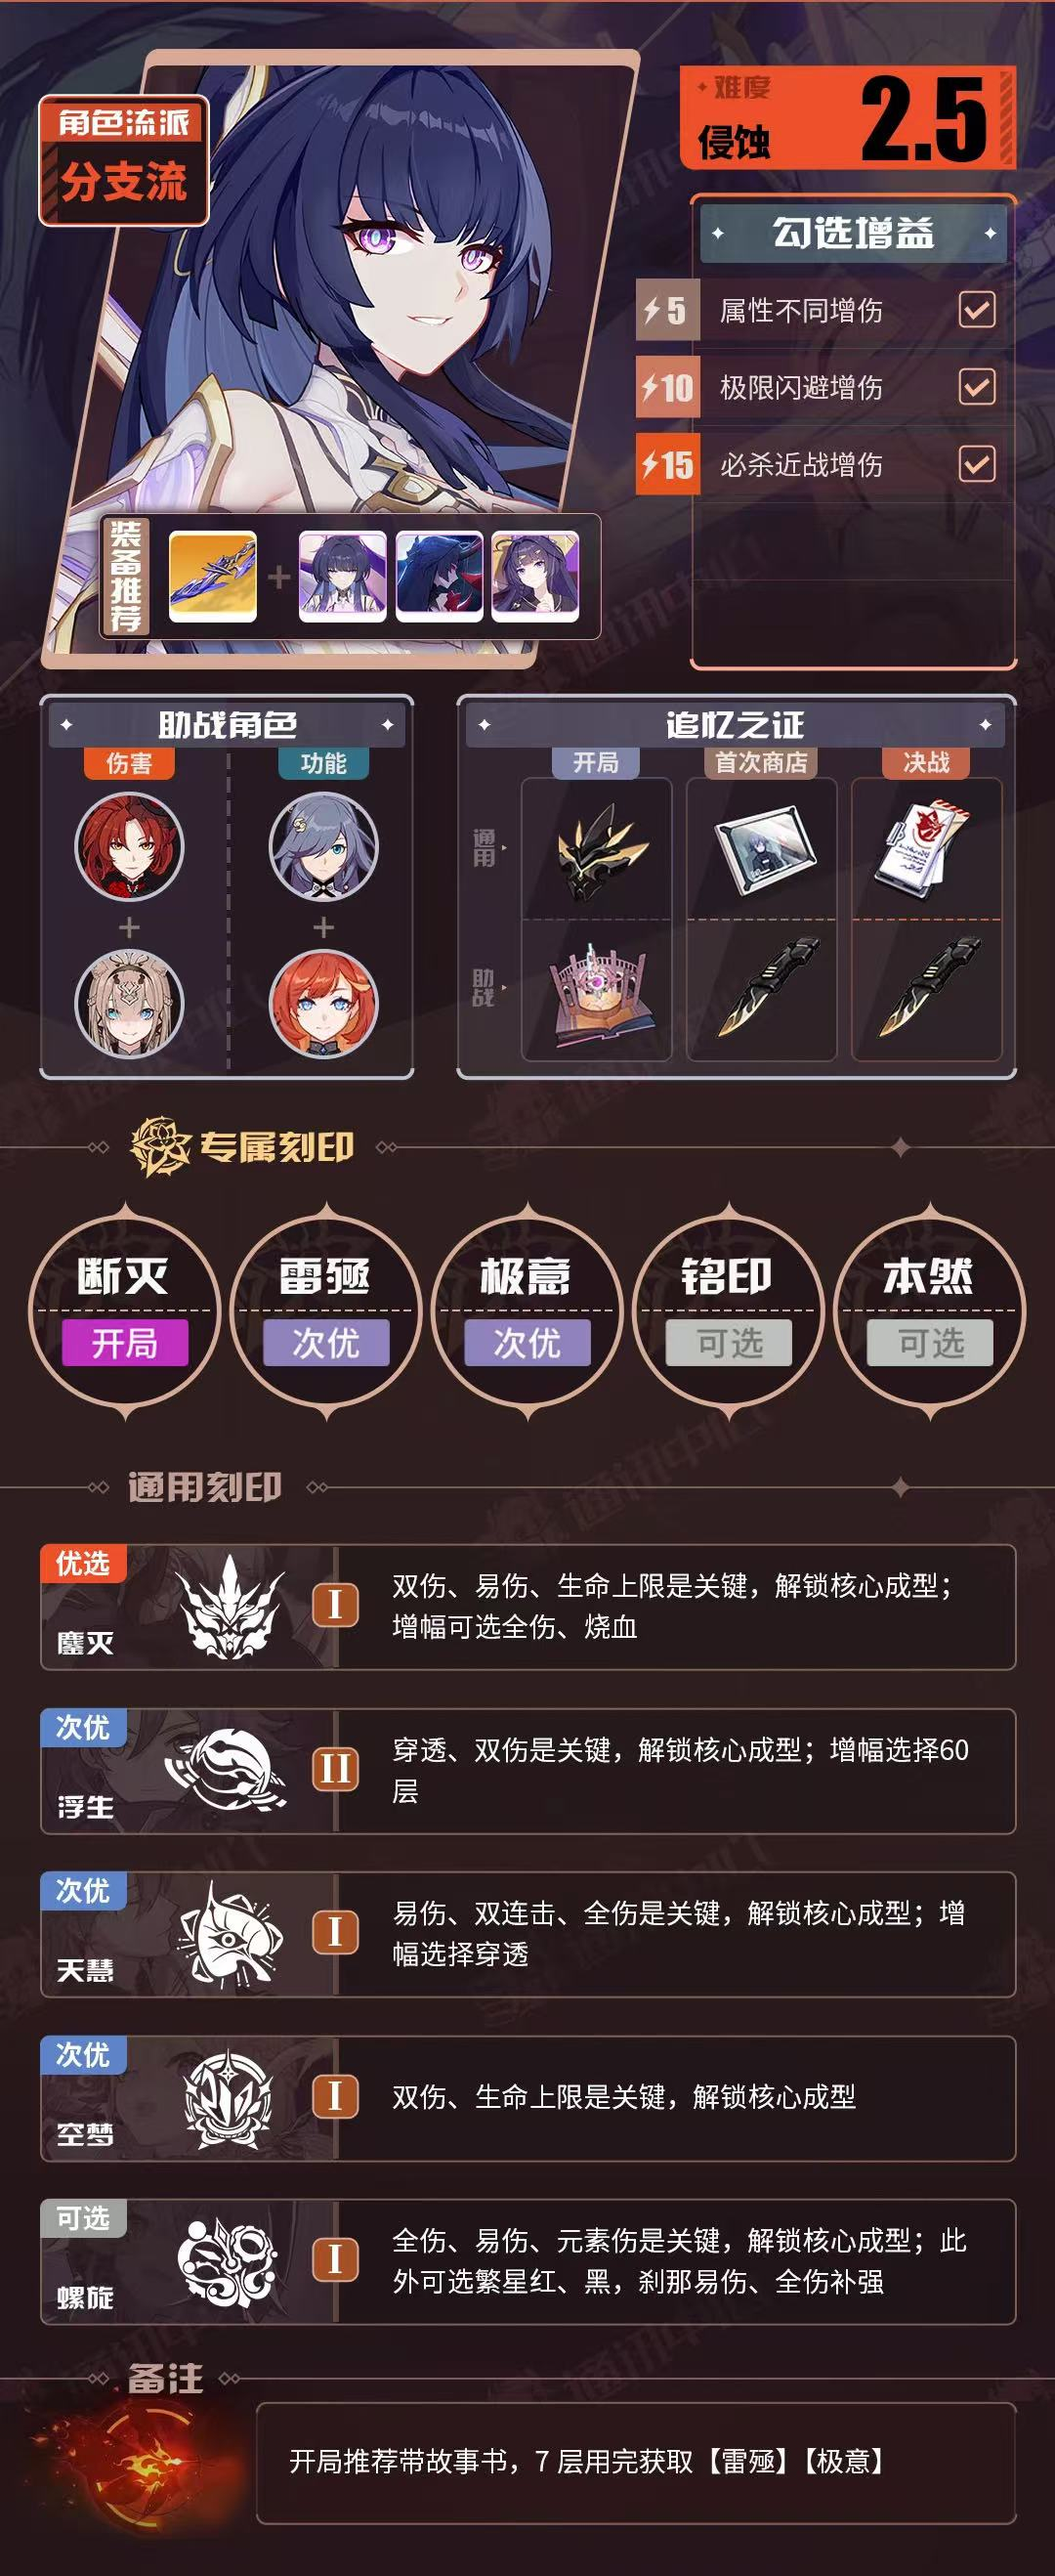
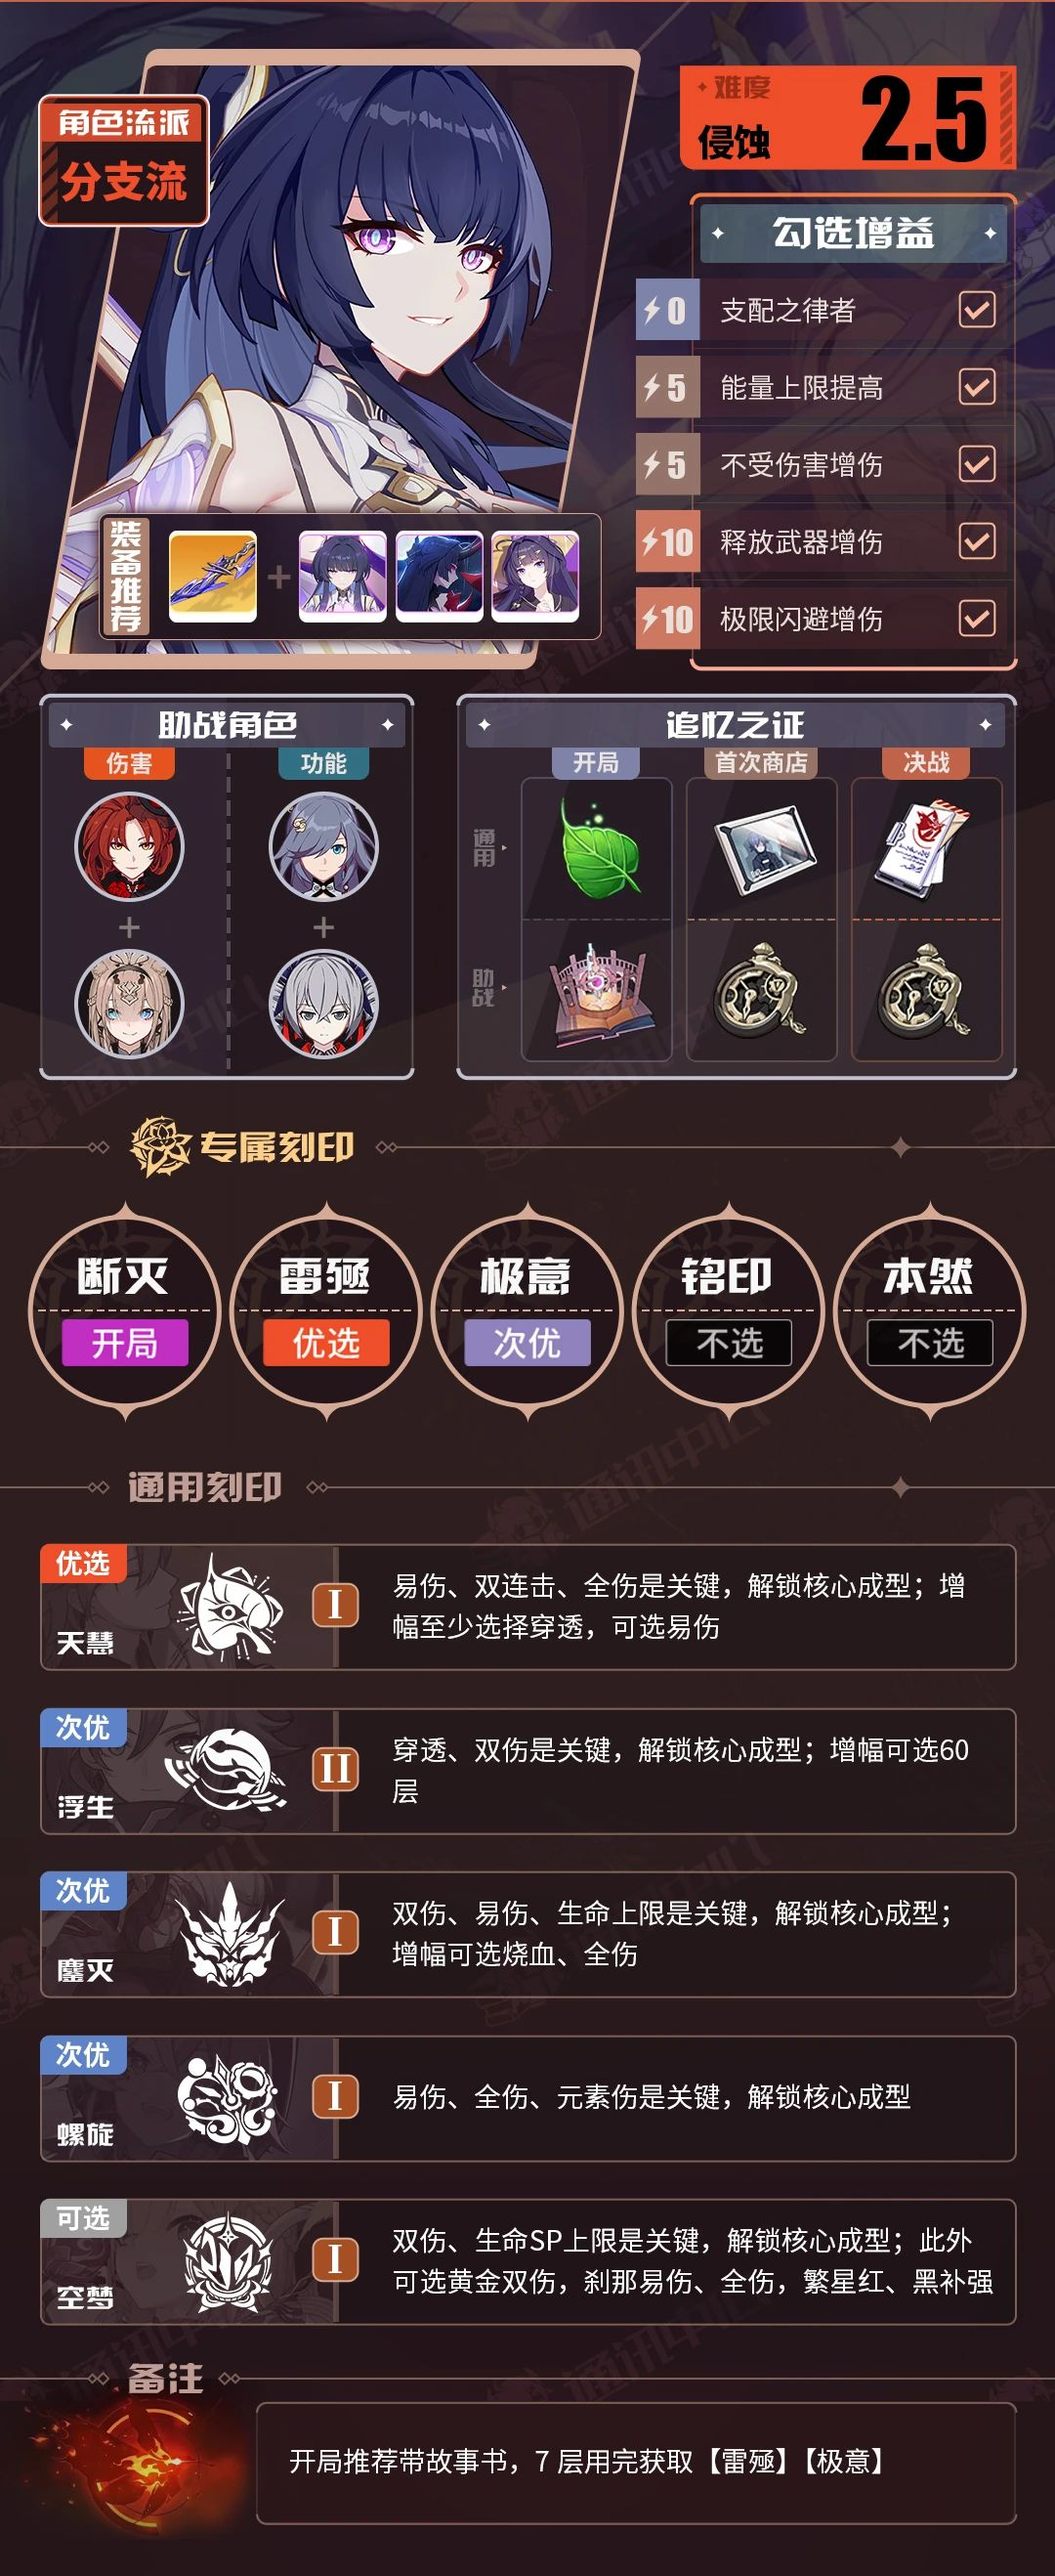
8.0v1

diff --git a/README.md b/README.md
@@ -63,6 +63,8 @@
 | Songque.jpg | 松雀 |
 | Songque_AstralRing.jpg | 松雀星环流 |
 | Susana.jpg | 苏莎娜 |
+| Durandal_TakeWalk.jpg | 天光驰彻逛街流 |
+| Durandal_Branch.jpg | 天光驰彻蓄力流 |
 | Palatinus.jpg | 天元骑英 |
 | Vita.jpg | 薇塔 |
 | Vita_AstralRing.jpg | 薇塔星环流 |
